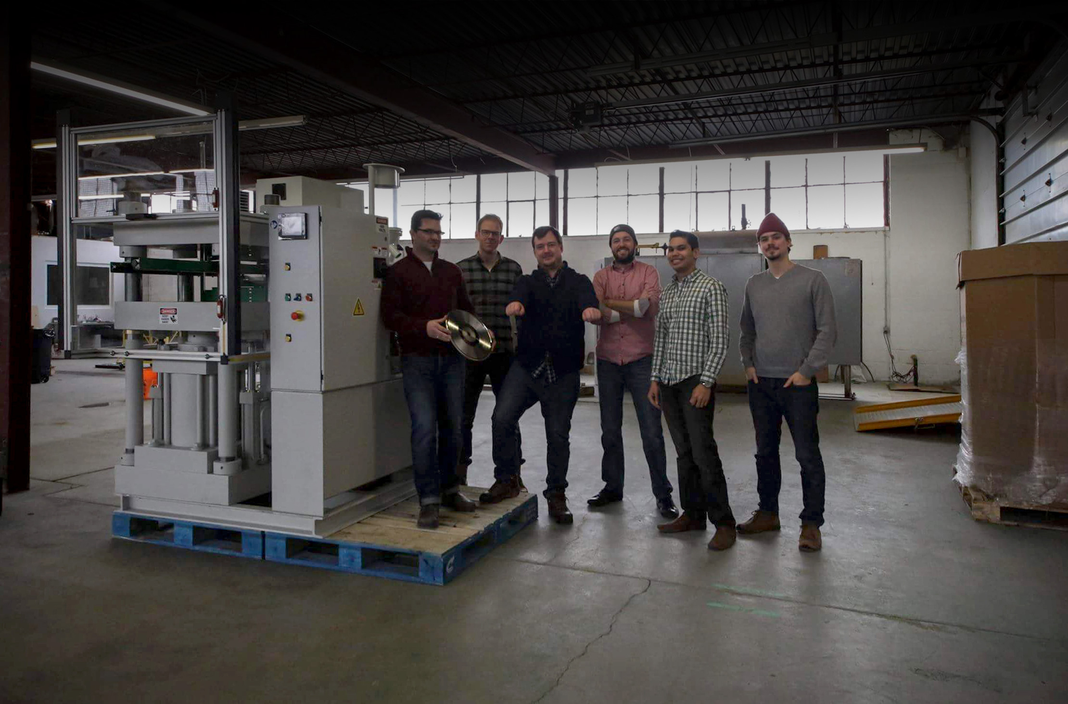
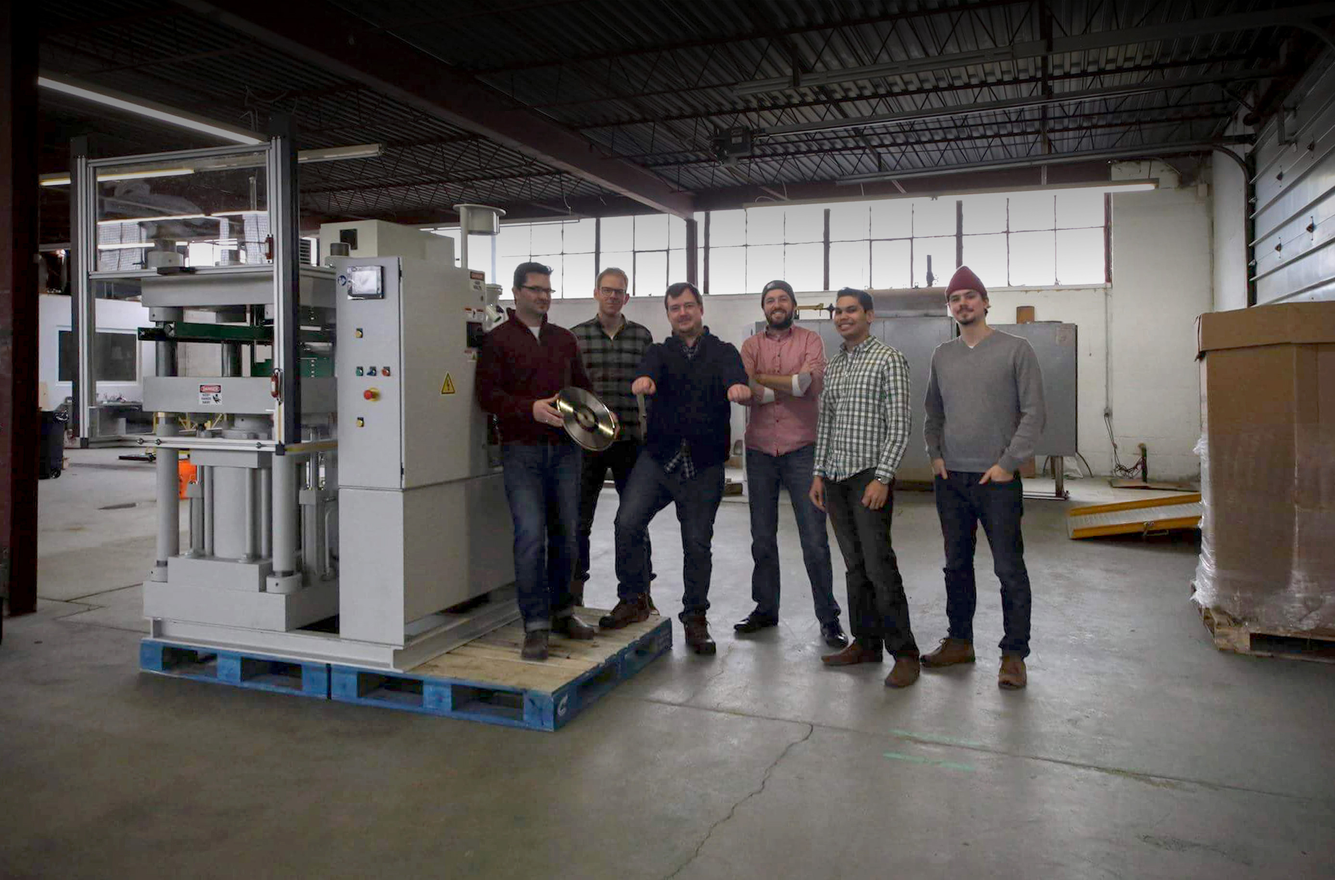
alters top section

diff --git a/css/desktop.css b/css/desktop.css
@@ -141,7 +141,7 @@ header button:active {
 
 #intro_email {
   font-weight: 400;
-  /*color: #669933;*/
+  color: #669933;
   /*background-color: rgba(0,0,0,0.5);*/
 }
 
@@ -606,7 +606,7 @@ footer span:hover {
 
 .partners {
   /*background: #ededed;*/
-  background: url("../resources/imgs/demoshot2.jpg");
+  background: url("../resources/imgs/demoshot.jpg");
   background-size: cover;
   height: 110vh;
 }
